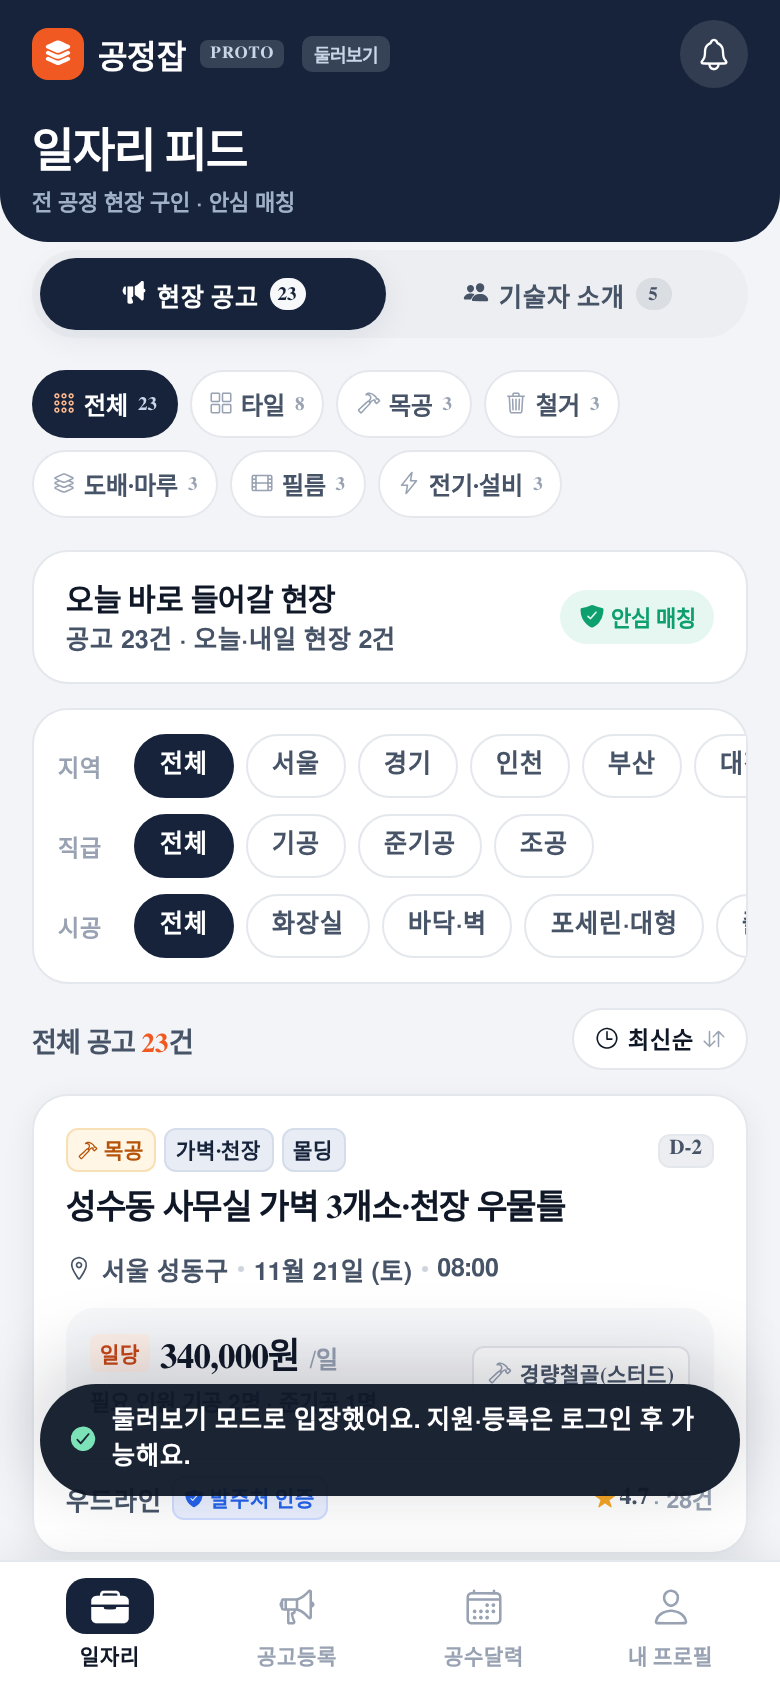
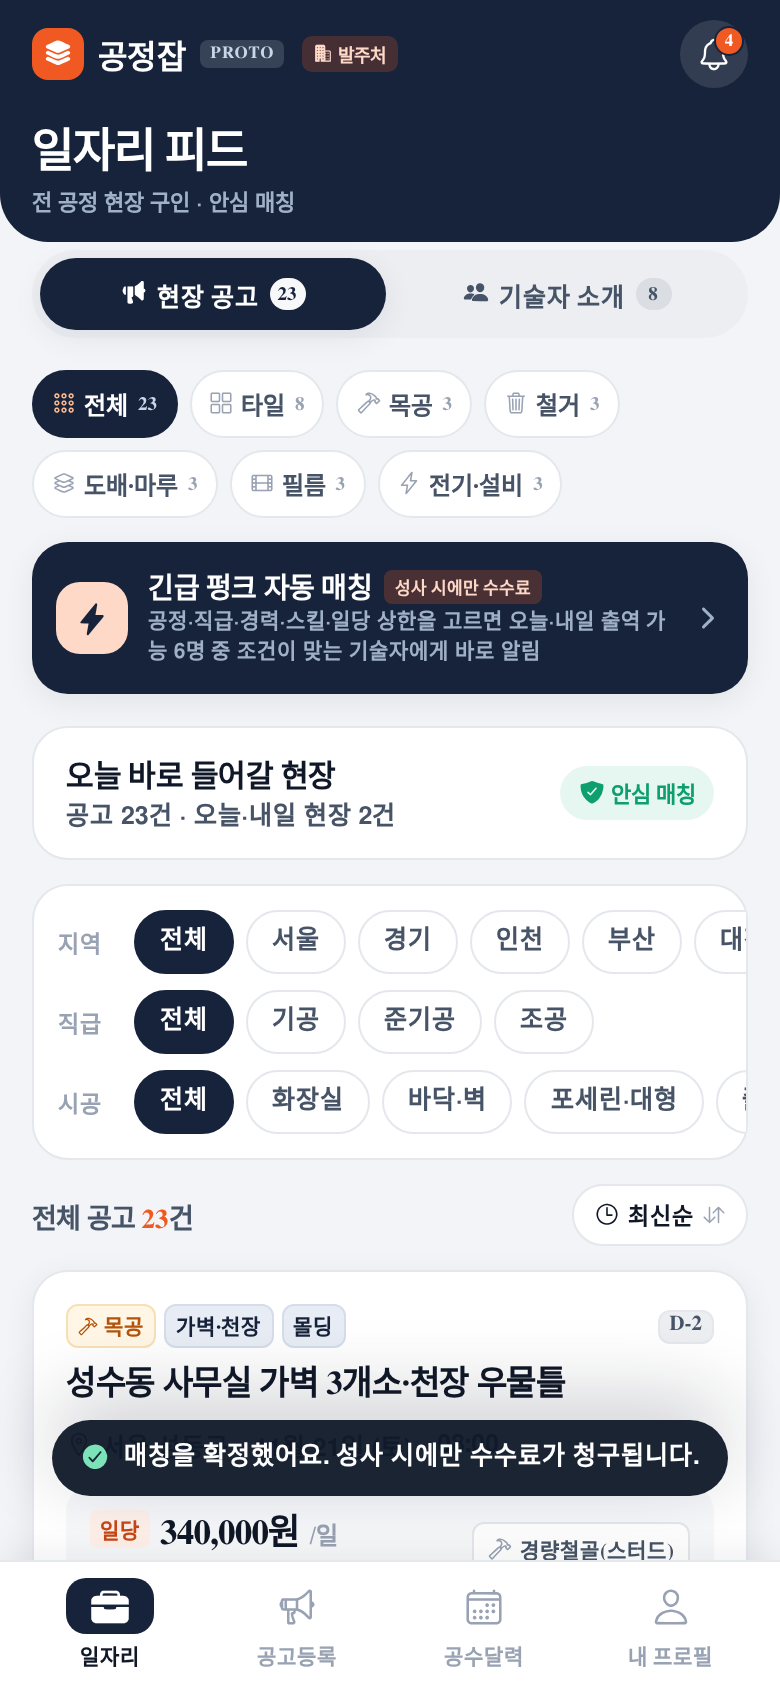
docs: v1.4.0 라이브 확인 스크린샷(긴급 매칭·스폰서 배너·광고 제휴) 추가

Changed region(s): [[0.0308, 0.3081, 0.9846, 0.9242], [0.3692, 0.0, 0.5231, 0.0616], [0.9231, 0.0, 0.9538, 0.0308]]

diff --git a/README.md b/README.md
@@ -279,7 +279,8 @@ python3 scripts/qa-screenshots.py   # 390×844 Chromium E2E + 스크린샷 + 콘
 | `66-긴급매칭-내출역-반영.png` | 긴급 출역 ON 기술자가 매칭 대기 풀에 반영(2→3명) |
 
 배포 사이트(`https://pcps9479.github.io/gongjeongjob/`) 라이브 확인 스크린샷은 `screenshots/gongjeongjob-live/`에 있습니다.
-(`01-시작-간소화` · `02-현장공고-피드` · `03-기술자-소개-피드` · `04-기술자-상세-시공사진`)
+(`01-시작-간소화` · `02-현장공고-피드` · `03-기술자-소개-피드` · `04-기술자-상세-시공사진` · `05~09-라이브-긴급매칭·스폰서배너·광고제휴`)
+v1.4.0 라이브에서 발주처 가입 → 공고등록 탭 긴급 매칭(조건 선택 → 알림 → 선착순 수락) → 매칭 확정 → 피드 스폰서 배너 → 광고·제휴 문의 접수까지 Chromium 390×844로 직접 클릭해 확인했습니다. (콘솔 에러 0건 · 4xx/5xx 0건)
 
 검증 결과(v1.3.0): `tsc --noEmit` 0건 · `expo-doctor` 통과 · `npm run build:web` 성공(GitHub Pages 서브패스) · Chromium 390×844 E2E 19개 체크 통과 · 콘솔 에러 0건 · 4xx/5xx 응답 0건(서브패스 자산 포함).
 
